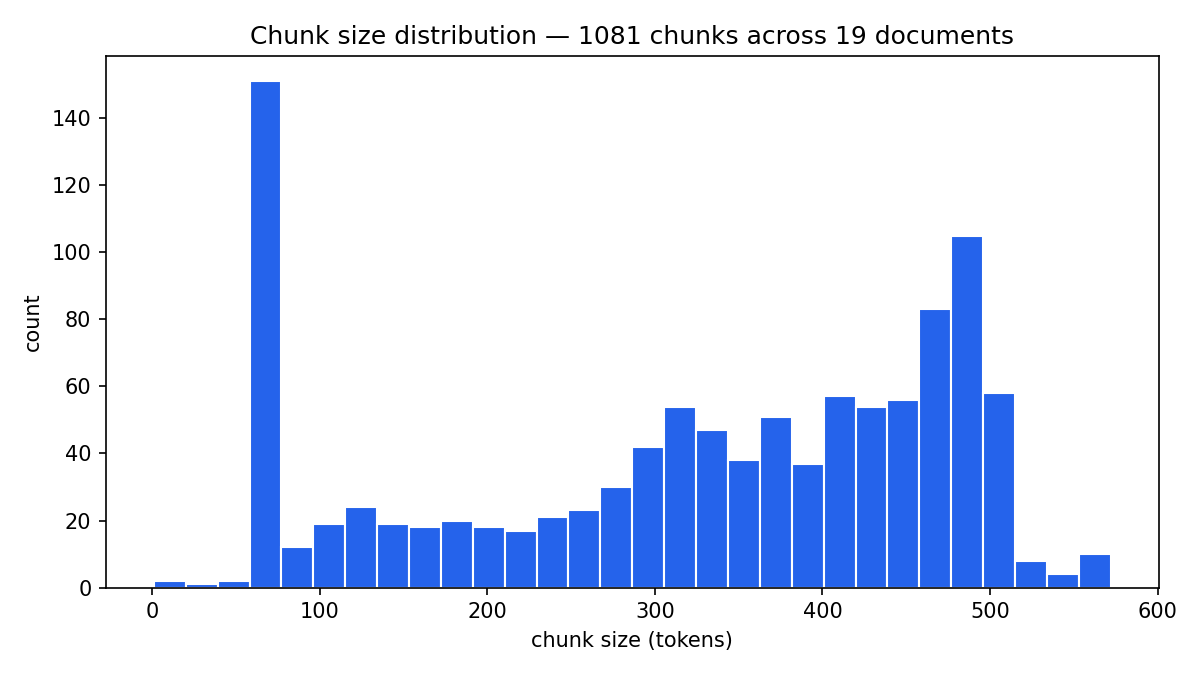
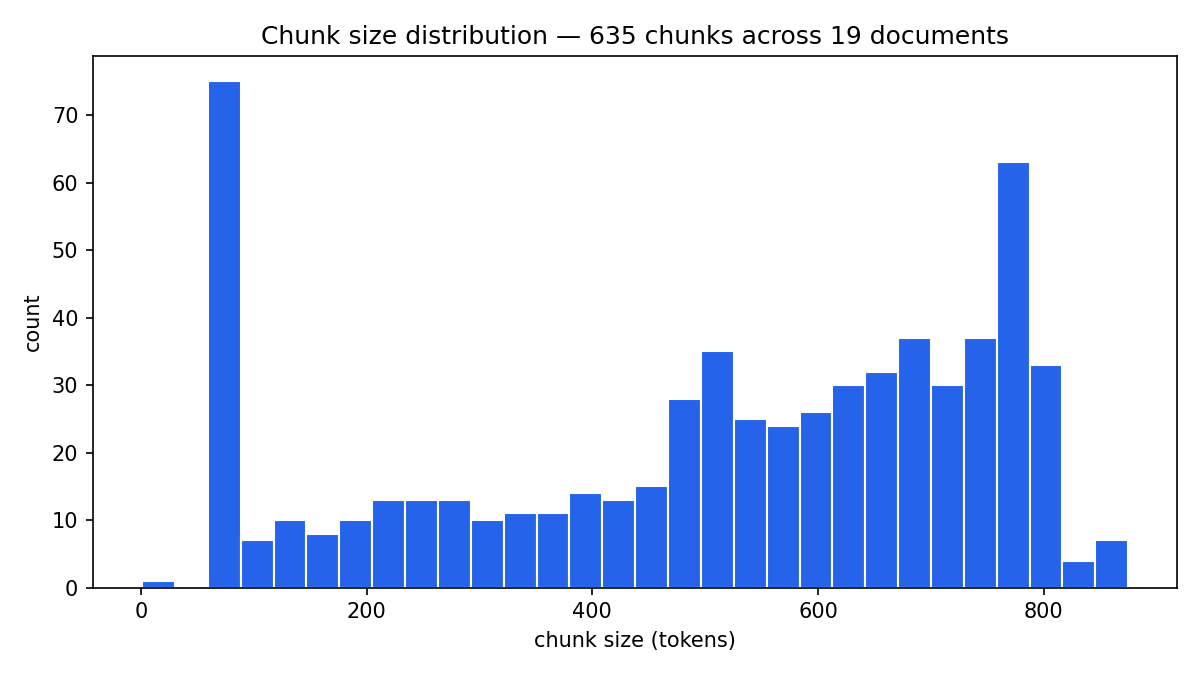
fix(ingest): exclude sentence-ending dates with a trailing period from headings
Same bug as the "08 July 2020" fix, one document and one date format over:
_is_heading's numbering pattern also matches a date-shaped line, and the earlier
fix's _DATE_LIKE regex only excluded a bare date with nothing after the year.
"28 February 2005." (a comment deadline, full stop still attached) slipped
through, got classified as a heading, and had its text dropped from the chunk
body — surfaced by golden item g08 refusing on a question whose answer was that
exact date.

Widened _DATE_LIKE to accept an optional trailing period. Re-ingesting shifted 5
of 14 chunks in sarb_circular_19_2004_capital_hybrid_instruments; the same
question now answers correctly with a verified citation. Two unit tests and one
integration test per date shape, mirroring the original fix's test structure.

diff --git a/tests/test_ingest.py b/tests/test_ingest.py
@@ -1,7 +1,17 @@
 """The three cleanup heuristics in ingest.py, tested directly against their inputs — no real PDF
-needed, since each is a pure function over (page, text, font_size) tuples."""
+needed, since each is a pure function over (page, text, font_size) tuples. One exception at the
+bottom: a regression test against the real corpus PDF that surfaced a live extraction bug."""
 
-from src.ingest import _boilerplate_lines, _dehyphenate_join, _is_heading, _is_toc_page
+import pytest
+
+from src.config import CORPUS_DIR
+from src.ingest import (
+    _boilerplate_lines,
+    _dehyphenate_join,
+    _is_heading,
+    _is_toc_page,
+    extract_elements,
+)
 
 
 def test_boilerplate_line_repeated_across_most_pages_is_flagged():
@@ -61,6 +71,24 @@ def test_numbered_heading_is_detected_regardless_of_font_size():
     assert _is_heading("4.2 Definitions", font_size=10.0, body_font_size=10.0) is True
 
 
+def test_a_bare_date_is_not_mistaken_for_a_numbered_heading():
+    # "08 July 2020" satisfies the same numbering pattern as "08 Introduction" would — a number,
+    # whitespace, a word — and was silently dropped from a real chunk's text because of it (a
+    # heading's own text never makes it into chunking.py's output, only its section metadata).
+    assert _is_heading("08 July 2020", font_size=10.0, body_font_size=10.0) is False
+    assert _is_heading("8 January 2024", font_size=10.0, body_font_size=10.0) is False
+
+
+def test_a_sentence_ending_date_with_a_full_stop_is_not_a_heading_either():
+    # same failure mode one document over: a comment deadline extracted as "28 February 2005."
+    # (the sentence's own full stop still attached) slipped past the first version of this check,
+    # which only matched a bare date with no trailing punctuation — found via a golden-set item
+    # that refused because the deadline had been split off into a heading, leaving only "by not
+    # later than" in the paragraph text.
+    assert _is_heading("28 February 2005.", font_size=10.0, body_font_size=10.0) is False
+    assert _is_heading("10 December 2004.", font_size=10.0, body_font_size=10.0) is False
+
+
 def test_large_font_line_is_a_heading_even_without_numbering():
     assert _is_heading("Executive Summary", font_size=14.0, body_font_size=10.0) is True
 
@@ -68,3 +96,29 @@ def test_large_font_line_is_a_heading_even_without_numbering():
 def test_ordinary_sentence_at_body_size_is_not_a_heading():
     text = "This directive applies to all banks and controlling companies."
     assert _is_heading(text, font_size=10.0, body_font_size=10.0) is False
+
+
+def test_press_release_dateline_survives_extraction_as_paragraph_text():
+    # regression test against the real PDF that surfaced this bug, not just the unit-level regex:
+    # confirms "08 July 2020" actually appears in a *paragraph* element's text after extraction,
+    # not silently discarded as a heading's metadata-only text
+    pdf_path = CORPUS_DIR / "fsca_press_conduct_standard_banks_2020.pdf"
+    if not pdf_path.exists():
+        pytest.skip("corpus not fetched — run python -m scripts.fetch_corpus first")
+
+    elements = extract_elements(pdf_path)
+    paragraph_text = " ".join(e.text for e in elements if e.kind == "paragraph")
+    assert "08 July 2020" in paragraph_text
+
+
+def test_comment_deadline_survives_extraction_as_paragraph_text():
+    # same regression, second document: this circular's comment deadline was a sentence-ending
+    # date ("...by not later than 28 February 2005.") rather than a standalone dateline, and it
+    # took a golden-set eval failure (see reports/failure_analysis.md, item g08) to surface it
+    pdf_path = CORPUS_DIR / "sarb_circular_19_2004_capital_hybrid_instruments.pdf"
+    if not pdf_path.exists():
+        pytest.skip("corpus not fetched — run python -m scripts.fetch_corpus first")
+
+    elements = extract_elements(pdf_path)
+    paragraph_text = " ".join(e.text for e in elements if e.kind == "paragraph")
+    assert "28 February 2005" in paragraph_text

diff --git a/src/ingest.py b/src/ingest.py
@@ -26,6 +26,20 @@ import fitz  # PyMuPDF
 from src.config import HEADER_FOOTER_REPEAT_FRACTION, TOC_DOT_LEADER_FRACTION
 
 _HEADING_NUMBERING = re.compile(r"^(\d{1,2}(\.\d{1,2}){0,3})[\.\)]?\s+\S")
+# a bare "08 July 2020" satisfies _HEADING_NUMBERING too (a number, whitespace, a word) — this
+# excludes it before the numbering check runs. Caught live: this exact date, on a press release
+# with no other body text to anchor the fact, got dropped from its chunk entirely (headings carry
+# no text into chunking.py's output, only their section metadata) and the answer that depended on
+# it was only right because the model already knew the date from training, not from this corpus.
+# The trailing \.? matters: found via failure_analysis.md on a different document, where a
+# PDF-extracted sentence-ending date like "28 February 2005." kept its full stop as part of the
+# line and slipped past the first version of this pattern (which only excluded a bare date with no
+# punctuation) — same failure mode, same fix, one document over.
+_DATE_LIKE = re.compile(
+    r"^\d{1,2}\s+(January|February|March|April|May|June|July|August|September|October|"
+    r"November|December)\s+\d{4}\.?\s*$",
+    re.IGNORECASE,
+)
 _DOT_LEADER = re.compile(r"\.{4,}\s*\d{1,4}\s*$")
 _TRAILING_HYPHEN = re.compile(r"(\w)-$")
 
@@ -81,6 +95,8 @@ def _is_toc_page(page_lines: list[tuple[str, float]]) -> bool:
 
 def _is_heading(text: str, font_size: float, body_font_size: float) -> bool:
     if len(text) > 120:  # headings are short; a numbered sentence-length line isn't one
+        return False
+    if _DATE_LIKE.match(text):  # never a section heading, checked before either signal below
         return False
     if _HEADING_NUMBERING.match(text):
         return True

diff --git a/reports/chunk_quality.md b/reports/chunk_quality.md
@@ -1,10 +1,10 @@
 # Chunk quality report
 
 - Documents ingested: 19
-- Total chunks: 1081
-- Token count — min 1, median 351, max 572
+- Total chunks: 635
+- Token count — min 1, median 561, max 875
 - Empty chunks: 0
-- Garbage chunks (< 40 tokens or < 50% alphanumeric): 3 (0.3% of total)
+- Garbage chunks (< 40 tokens or < 50% alphanumeric): 1 (0.2% of total)
 
 ![chunk size histogram](figures/chunk_size_histogram.png)
 
@@ -12,28 +12,26 @@
 
 | doc_id | chunks | median tokens | min | max |
 |---|---|---|---|---|
-| fsca_conduct_standard_otc_derivatives_2018 | 17 | 313 | 213 | 462 |
-| fsca_press_conduct_standard_banks_2020 | 1 | 300 | 300 | 300 |
-| fsca_rdr_2014 | 312 | 351 | 1 | 571 |
-| fsca_rdr_intermediary_segmentation_2019 | 9 | 336 | 99 | 461 |
-| fsca_tcf_2011 | 3 | 300 | 174 | 335 |
-| ifrs9_project_summary_2014 | 31 | 341 | 75 | 564 |
-| nca_act_34_2005 | 562 | 363 | 26 | 572 |
-| nca_notebook_brochure | 18 | 361 | 276 | 449 |
-| ncr_guideline_disputed_credit_complaints | 5 | 301 | 146 | 452 |
-| ncr_guideline_feb_2026_clearance_certificates | 7 | 184 | 75 | 488 |
-| ncr_guideline_june_2025_credit_info | 4 | 301 | 75 | 407 |
-| ncr_guideline_sept_2025_debt_counsellors | 3 | 305 | 101 | 444 |
-| pwc_practical_guide_ifrs9 | 51 | 275 | 75 | 561 |
-| sarb_circular_19_2004_capital_hybrid_instruments | 21 | 389 | 210 | 572 |
-| sarb_circular_6_2004_basel_ii_update | 3 | 182 | 102 | 474 |
-| sarb_d10_2021_operational_resilience | 4 | 448 | 75 | 524 |
-| sarb_d3_2023_accounting_provisions_ifrs9 | 4 | 472 | 136 | 496 |
-| sarb_d8_2023_threshold_amounts | 13 | 259 | 75 | 488 |
-| sarb_g3_2025_climate_disclosures | 13 | 328 | 75 | 556 |
+| fsca_conduct_standard_otc_derivatives_2018 | 8 | 609 | 509 | 770 |
+| fsca_press_conduct_standard_banks_2020 | 1 | 306 | 306 | 306 |
+| fsca_rdr_2014 | 191 | 523 | 1 | 863 |
+| fsca_rdr_intermediary_segmentation_2019 | 5 | 525 | 423 | 616 |
+| fsca_tcf_2011 | 2 | 493 | 241 | 493 |
+| ifrs9_project_summary_2014 | 17 | 564 | 473 | 767 |
+| nca_act_34_2005 | 333 | 572 | 75 | 875 |
+| nca_notebook_brochure | 9 | 639 | 536 | 778 |
+| ncr_guideline_disputed_credit_complaints | 3 | 502 | 322 | 575 |
+| ncr_guideline_feb_2026_clearance_certificates | 3 | 598 | 513 | 621 |
+| ncr_guideline_june_2025_credit_info | 2 | 631 | 301 | 631 |
+| ncr_guideline_sept_2025_debt_counsellors | 2 | 494 | 281 | 494 |
+| pwc_practical_guide_ifrs9 | 25 | 625 | 75 | 832 |
+| sarb_circular_19_2004_capital_hybrid_instruments | 14 | 574 | 281 | 760 |
+| sarb_circular_6_2004_basel_ii_update | 1 | 614 | 614 | 614 |
+| sarb_d10_2021_operational_resilience | 3 | 448 | 364 | 524 |
+| sarb_d3_2023_accounting_provisions_ifrs9 | 3 | 472 | 316 | 633 |
+| sarb_d8_2023_threshold_amounts | 6 | 653 | 287 | 729 |
+| sarb_g3_2025_climate_disclosures | 7 | 512 | 471 | 698 |
 
 ## Garbage chunks flagged
 
-- `nca_act_34_2005` chunk 312 (page 62): '(ii) require\xa0the\xa0debt\xa0intervention\xa0applicant\xa0to\xa0attend\xa0a\xa0financial literacy\xa0programme.'
 - `fsca_rdr_2014` chunk 0 (page 3): '1'
-- `fsca_rdr_2014` chunk 238 (page 66): '64 Table: Implementation of Phase 1 RDR proposals No.'
